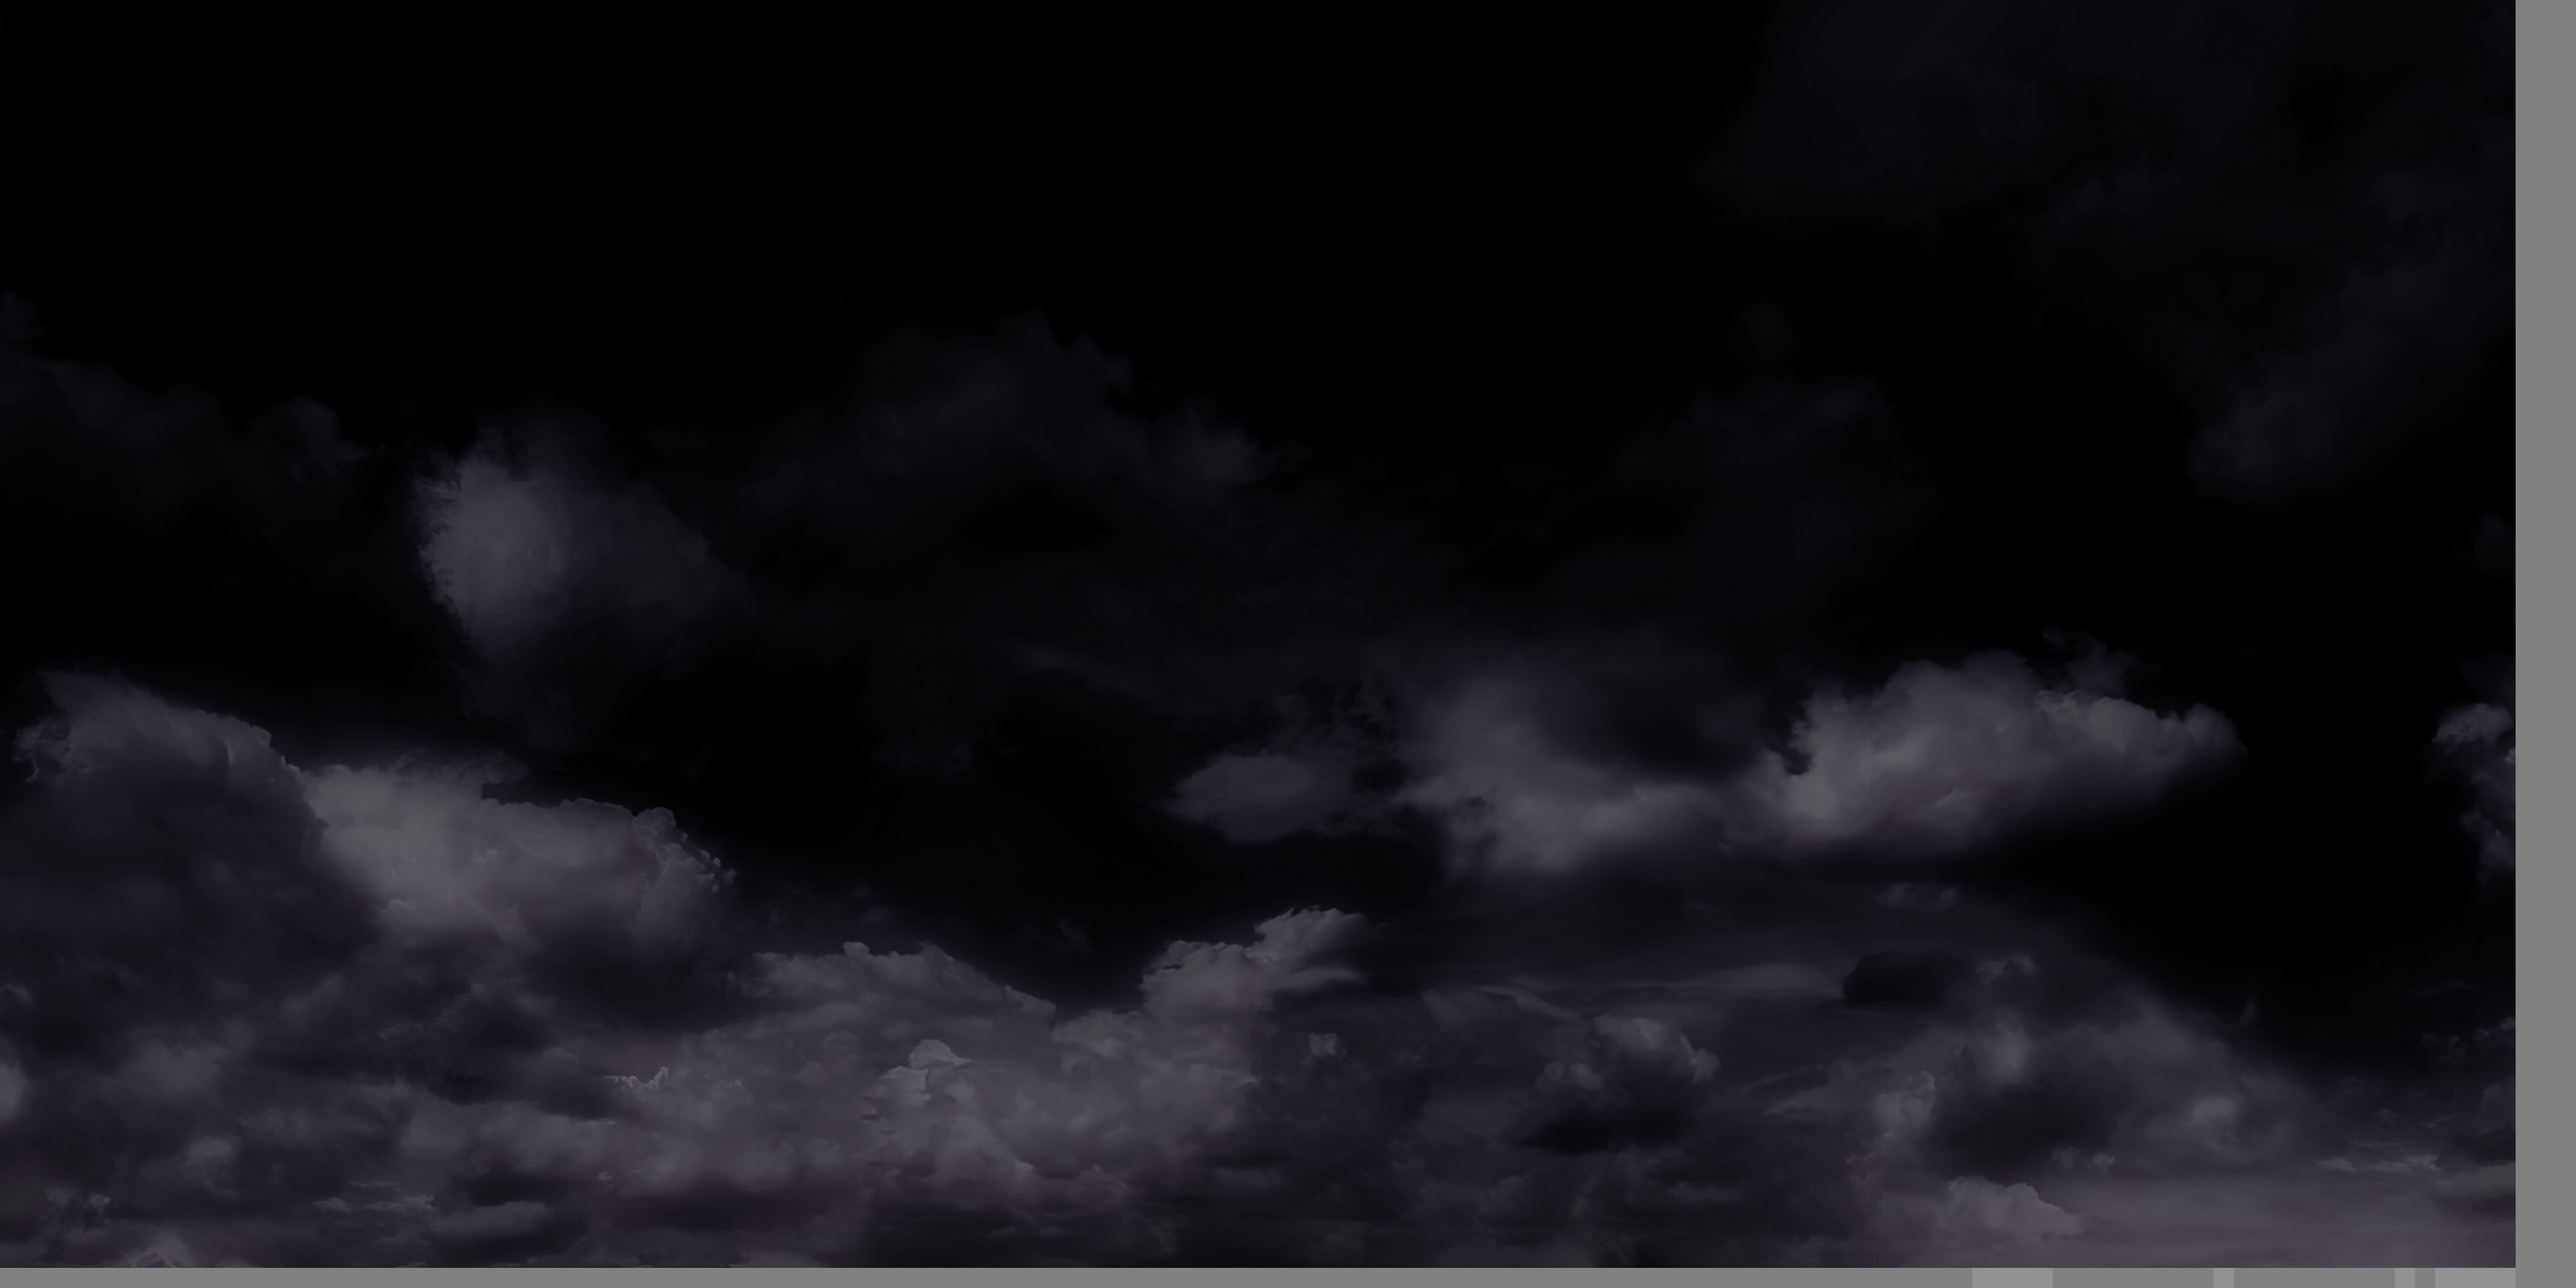
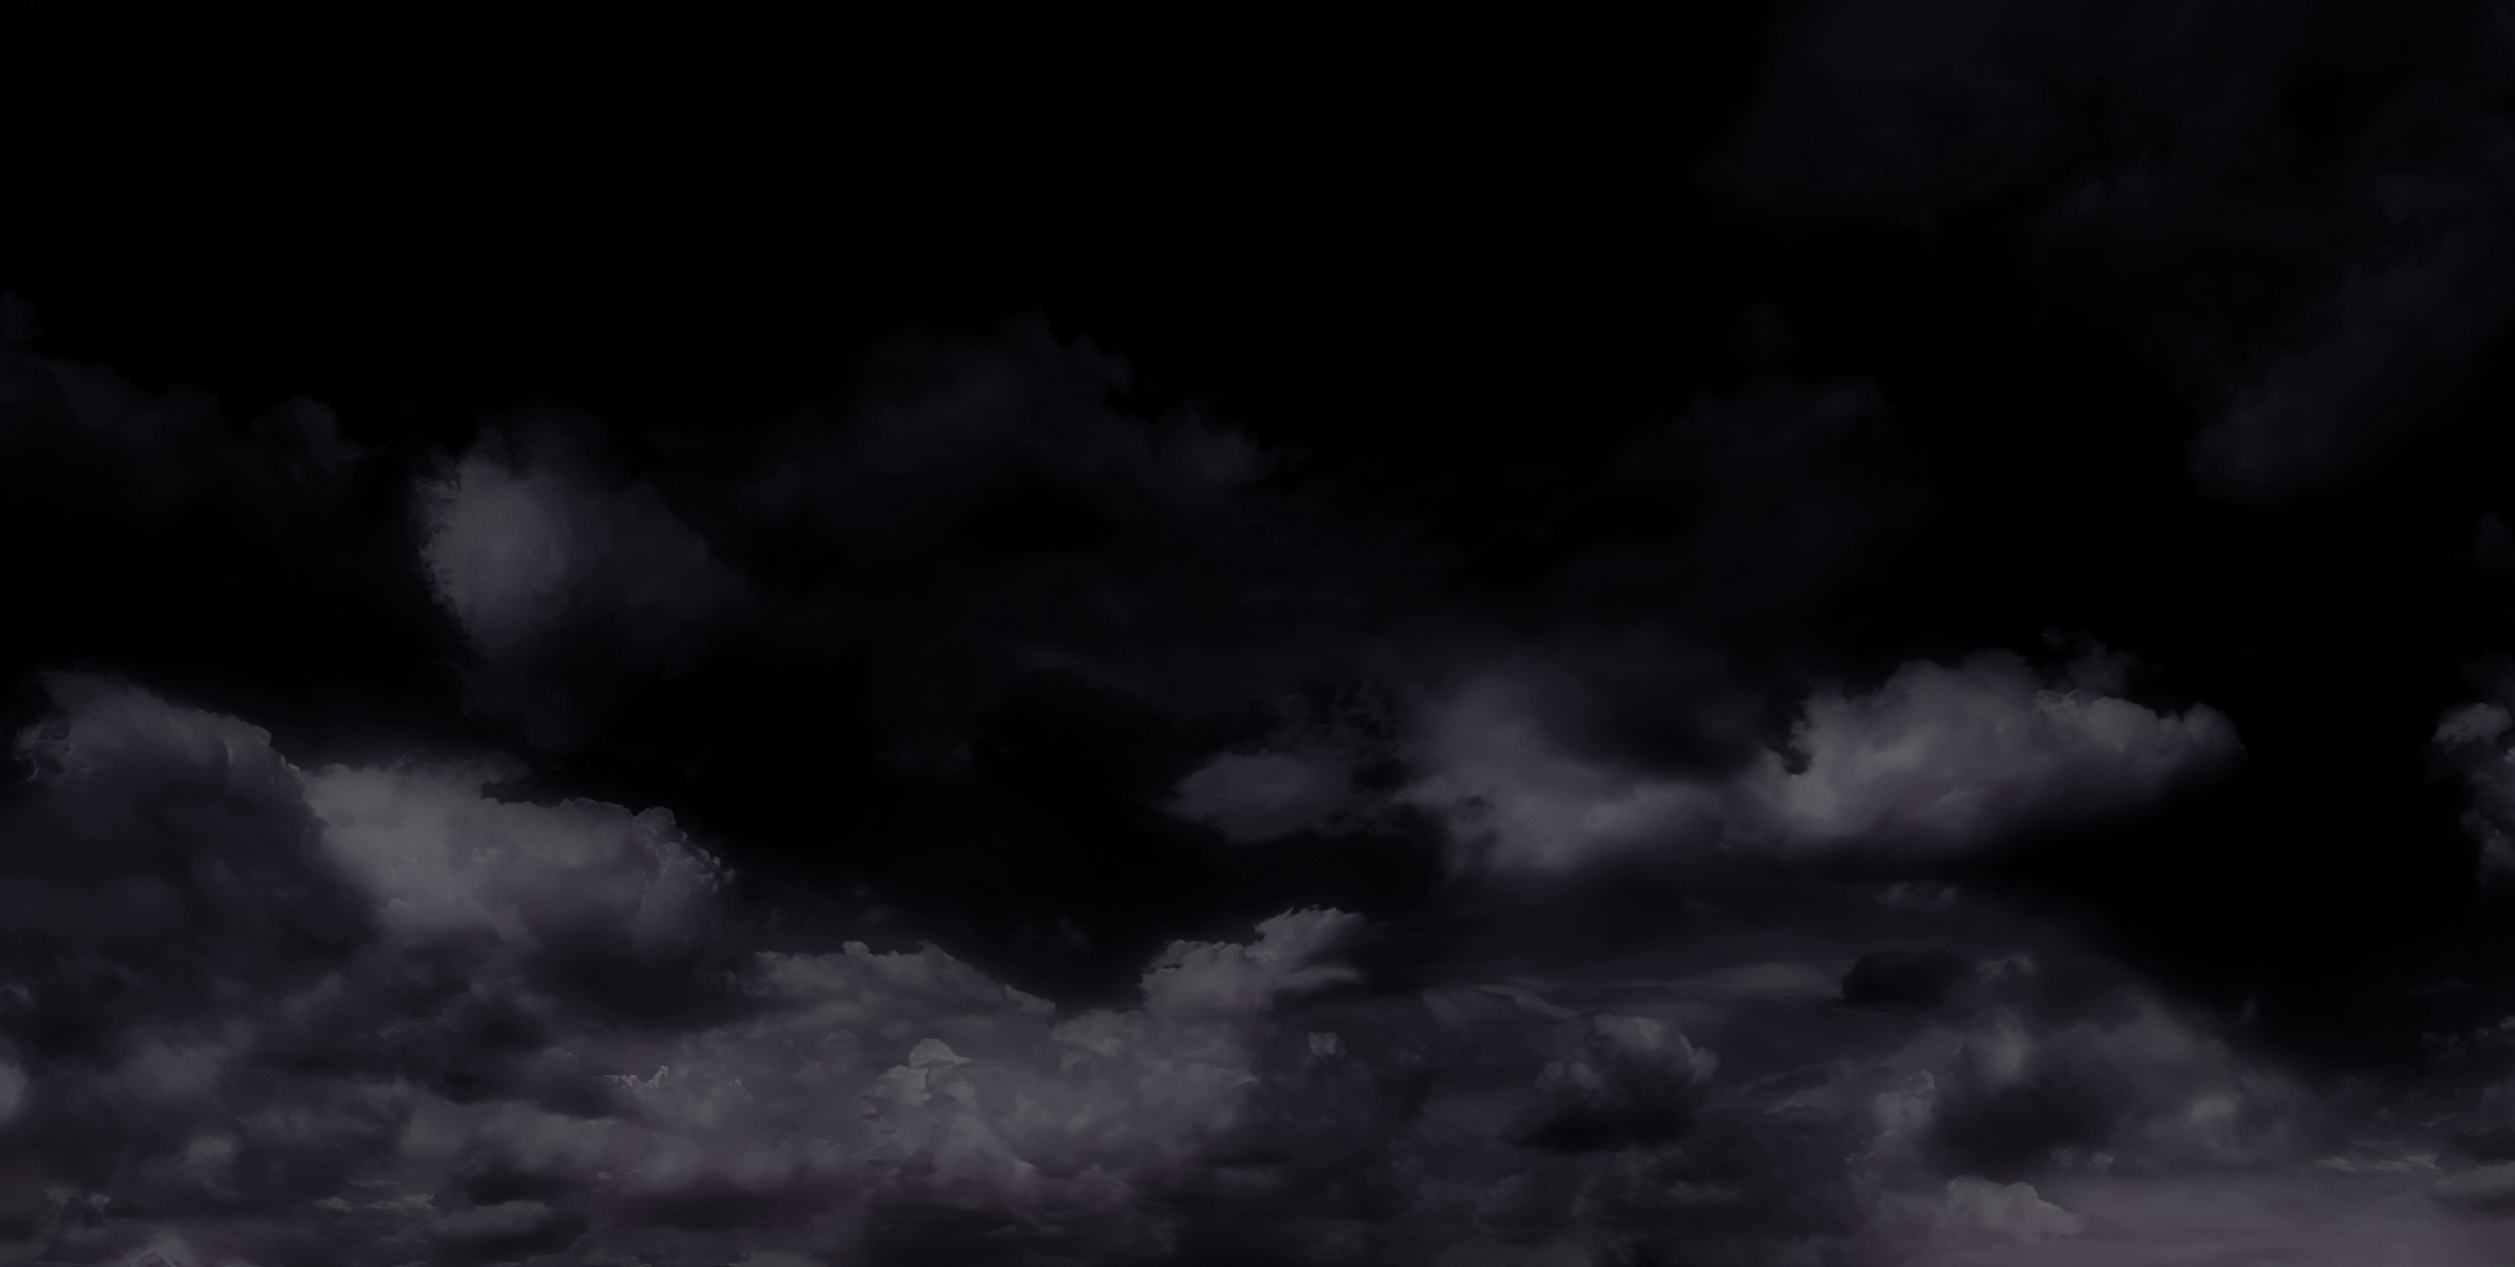
Changed backgrounds, added styling. Accounting for mainui.js always running

diff --git a/docs/files/mainui.js b/docs/files/mainui.js
@@ -9,6 +9,11 @@ export const dgebi = (id) => {
   return document.getElementById(id);
 };
 
+export const FromEndOfArray = (array, i = 0) => {
+  const endOfArray = array.length - (1 + i);
+  return array[endOfArray];
+};
+
 const renderHeader = () => {
   const headerElement = dgebi("site-header");
 
@@ -34,6 +39,13 @@ const renderHeader = () => {
 
     pageListItemAnchor.textContent = page.pageName;
     pageListItemAnchor.href = page.url;
+
+    const pageUrlSplit = page.url.split("/");
+    const currentPageHTML = FromEndOfArray(pageUrlSplit);
+    
+    if (window.location.pathname.includes(currentPageHTML)) {
+      pageListItemAnchor.classList.add("current-page");
+    };
 
     pagesList.appendChild(pageListItem);
   });
@@ -73,11 +85,14 @@ export const RenderPage = () => {
   renderFooter();
 };
 
-if (window.location.pathname.includes("/index.html")) {
-  RenderPage();
+RenderPage();
+// if (window.location.pathname.includes("/index.html")) {
+// if (true) {
 
-  const areaFilterSelect = dgebi("area");
+const areaFilterSelect = dgebi("area");
+if (areaFilterSelect) {
   areaFilterSelect.addEventListener("change", (e) => {
     // e.target.value;
   });
 }
+// }

diff --git a/docs/files/styles.css b/docs/files/styles.css
@@ -20,7 +20,7 @@ a {
   display: flex;
   flex-direction: column;
   background-image: url("./gNightOvercastSkybox2Tex.png");
-  background-size: 5000px;
+  background-size: cover;
   background-position: center;
   /* background-color: var(--primary-dark); */
   color: var(--primary-light);
@@ -29,7 +29,7 @@ a {
 
 #site-header {
   display: flex;
-  justify-content: center;
+  /* justify-content: center; */
   align-items: center;
   flex-direction: column;
   h1 a {
@@ -49,9 +49,21 @@ a {
   }
 }
 
+.current-page {
+  font-size: 20px;
+  font-weight: bold;
+  text-decoration: none;
+}
+
 #primary-content {
   display: flex;
   flex-direction: row;
+  flex-grow: 1;
+  min-height: 0;
+}
+
+#blahaj {
+  height: 200px;
 }
 
 #site-footer {

diff --git a/docs/files/loginui.js b/docs/files/loginui.js
@@ -3,8 +3,8 @@ import { GetGSFlags } from "./service.js";
 
 // const url = new URL(window.location);
 
-if (window.location.pathname.includes("/login.html")) {
-  RenderPage();
+// if (window.location.pathname.includes("/login.html")) {
+  // RenderPage();
 
   const selectFileFormElement = dgebi("select-file-form");
   selectFileFormElement.addEventListener("submit", async (e) => {
@@ -28,4 +28,4 @@ if (window.location.pathname.includes("/login.html")) {
     );
     // e.target.reset();
   });
-}
+// }

diff --git a/docs/author.html b/docs/author.html
@@ -36,7 +36,7 @@
           the page. Can you find Blåhaj's favourite spot? I might add more to
           this just for fun once the main project is complete.
         </p>
-        <img src="./files/blahaj-soft-toy-shark.avif" alt="Blåhaj" />
+        <img id="blahaj" src="./files/blahaj-soft-toy-shark.png" alt="Blåhaj" />
       </article>
     </main>
     <footer id="site-footer"></footer>

diff --git a/docs/files/authorui.js b/docs/files/authorui.js
@@ -1,6 +1,6 @@
 import { dce, dgebi, RenderPage } from "./mainui.js";
 import { GetGSFlags } from "./service.js";
 
-if (window.location.pathname.includes("/author.html")) {
-  RenderPage();
-}
+// if (window.location.pathname.includes("/author.html")) {
+//   RenderPage();
+// }

diff --git a/README.md b/README.md
@@ -33,6 +33,7 @@ Next, I would personally prefer to have this in a separate window like a tab in 
 - Add logic for filtering by area, as well as a spoiler checkbox in the main page, which can be changed and re-render everything instantly. The query string will be used to determine whether to render the page in spoiler mode or not. Local storage will be for storing the skulltula data, so if the page reloads, it won't have to keep re-sending requests to deserialize the save file to the API.
 - Put all the inputs fields in the sidebar. (Except the login on login.html)
 - The main page is in a transparent box that looks like the file select menu. (I don't know how to get the corners to look like they do in the actual menu in the game.)
+- Add a way for the pages in the nav bar to indicate which pages you are on, with classList.add when they are being generated. (index.html / home page is the else)
 
 ### April 18 (80%)
 - Figure out cloud server back-end hosting. Specifically, how to send the save file data to the back-end API.
@@ -47,3 +48,5 @@ Next, I would personally prefer to have this in a separate window like a tab in 
 - [Zelda Dungeon's Guide to find all the Gold Skulltulas](https://www.zeldadungeon.net/wiki/Ocarina_of_Time_Gold_Skulltulas)
 - [Ocarina of Time Reloaded Texture Pack](https://github.com/GhostlyDark/OoT-Reloaded-SoH)
 - [IKEA listing for Blåhaj, supplies the image used on the author page](https://www.ikea.com/us/en/p/blahaj-soft-toy-shark-90373590/)
+- [Trans flag from Wikimedia Commons](https://commons.wikimedia.org/wiki/File:Transgender_Pride_Flag_(3-2_aspect_ratio).svg)
+- [Lesbian flag from Wikimedia Commons](https://commons.wikimedia.org/wiki/File:Lesbian_Pride_Flag_2019.svg)
